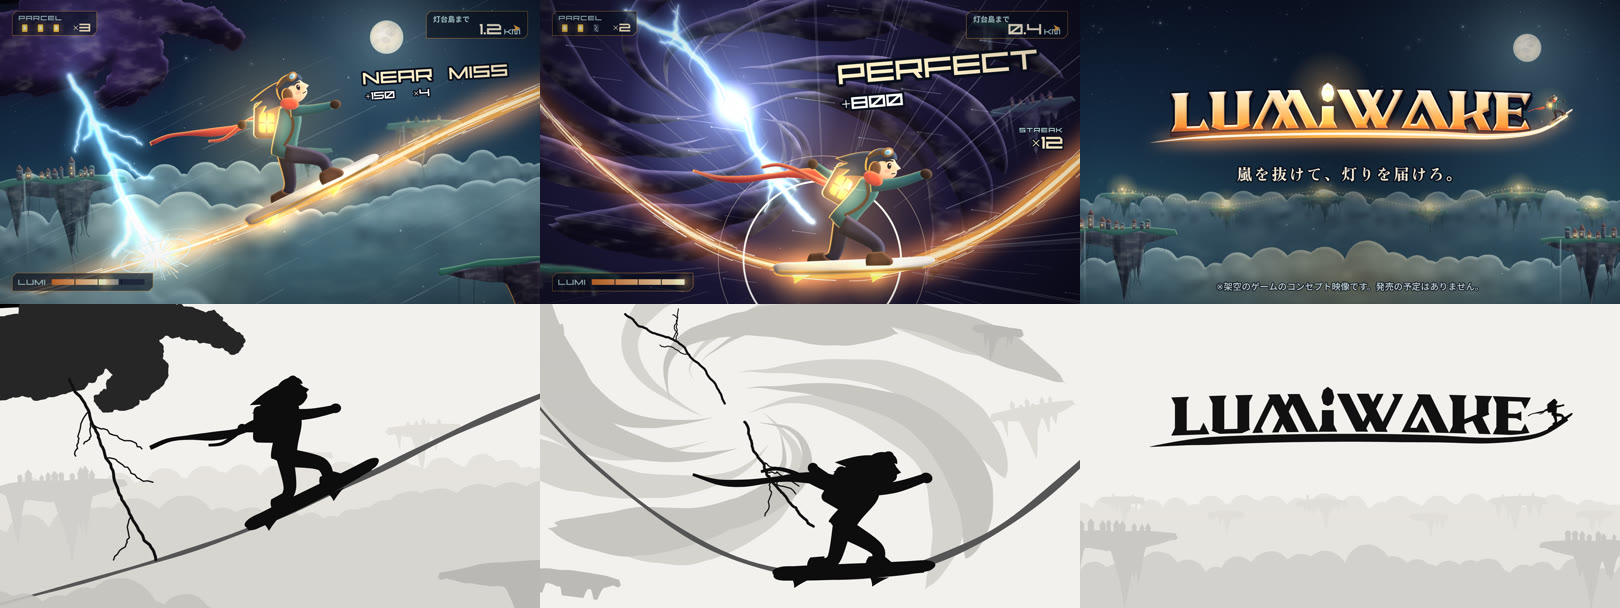
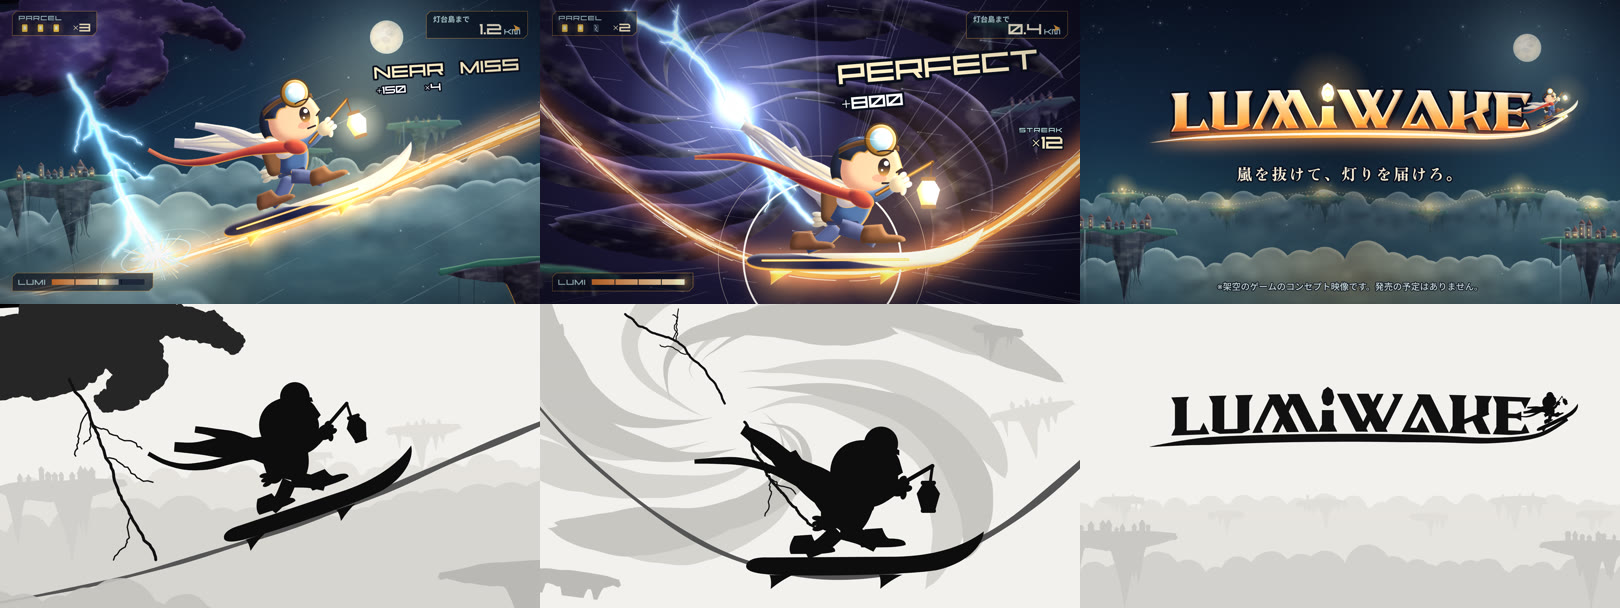
Switch style frames sf1-sf3 to character design A (Mio with lantern)
Fix pose, brows, cape folds, fingers/grip, goggles size, boot/board contact;
re-render with real HUD fonts; add old-vs-new, 540px/silhouette, FX on/off
and motion-check images. Font files and logo glyph data stay uncommitted.

Claude-Session: https://claude.ai/code/session_01DHqeTrY16kMSHw1xjVFCqk

diff --git a/claude-video-skill/examples/lumiwake-30s/src/lib/courier2.js b/claude-video-skill/examples/lumiwake-30s/src/lib/courier2.js
@@ -8,7 +8,7 @@
 // 局所座標: 原点=板の中心、右向き、y は下。足は板の上面 FT_Y に載る。単位は s=1 で人物の高さ約 260〜300px。
 const COURIER2 = (() => {
   const P = PAINT, W = WORLD, { css, mix, lerp, clamp, shade, glow } = P;
-  const FT_Y = -24;
+  const FT_Y = -25; // 板の上面。靴底はここに接する(めり込まない)
   const SKIN = { base: "#f3cba8", hi: "#fff0dd", sh: "#c27a6a" };
 
   // ---- 3案の体と衣装 ----
@@ -27,7 +27,7 @@ const COURIER2 = (() => {
   // ---- 姿勢(単位: 腕の長さ・脚の長さに対する比、または px) ----
   const POSES = {
     ride:    { crouch: 0.62, lean: 0.42, hipX: -16, fx: 70, bx: -70, handF: [1.55, -0.2], handB: [-0.95, 0.85], tilt: -0.04, expr: 0, swing: 0.3 },
-    dodge:   { crouch: 0.92, lean: -0.32, hipX: -34, fx: 46, bx: -86, handF: [0.85, -1.35], handB: [-1.2, -0.6], tilt: 0.22, expr: 1, swing: 0.9 },
+    dodge:   { crouch: 0.92, lean: -0.3, hipX: -34, fx: 46, bx: -86, handF: [1.35, -0.55], handB: [-1.25, 0.15], tilt: 0.22, expr: 1, swing: 0.9 },
     deliver: { crouch: 0.28, lean: 0.14, hipX: -8, fx: 66, bx: -54, handF: [1.7, 0.05], handB: [1.45, 0.3], tilt: -0.02, expr: 2, swing: 0.15, offer: 1 },
   };
   const poseMix = (a, b, k) => { const o = {}, A = typeof a === "string" ? POSES[a] : a, B = typeof b === "string" ? POSES[b] : b; for (const key in A) o[key] = Array.isArray(A[key]) ? A[key].map((v, i) => lerp(v, B[key][i], k)) : lerp(A[key], B[key] ?? A[key], k); return o; };
@@ -75,7 +75,7 @@ const COURIER2 = (() => {
     const rim = (k = 1) => ({ rimCol: css(W.C.amber), rim: 4.5 * s * k, rimA: 0.9 * lampK });
     const limb = (g, pts, wf) => P.ribbonPath(g, P.sampleSpline(pts, 12), wf);
     const strokeLocal = (fn, force) => { if (sil && !force) return; ctx.save(); T(ctx); fn(ctx); ctx.restore(); };
-    const wLimb = D.limbW, ang0 = Math.PI + clamp(-p.lean * 0.5, -0.4, 0.4); // 風は後ろ(-x)から。体が前に傾くほどなびきは寝る
+    const wLimb = D.limbW, ang0 = Math.PI + (opts.windLift ?? 0.3) + clamp(-p.lean * 0.25, -0.2, 0.2); // 風は後ろ(-x)から。体が前に傾くほどなびきは寝る
 
     // 0) 二次運動の鎖(後ろ側): 先に計算する
     const nk = [J.neck[0] + 2, J.neck[1] + 8];
@@ -84,10 +84,17 @@ const COURIER2 = (() => {
     const ribbon = (g, pts, w0, w1) => limb(g, pts, (u) => lerp(w0, w1, u) * (1 + 0.12 * Math.sin(u * 13 - t * 9)));
 
     // 1) 後ろ側の二次運動(ケープ・コートの裾)
-    if (D.cape) {
-      const base = [J.sh[0] - 6, J.sh[1] + 2], c1 = chain(base, ang0 + 0.12, [52, 52, 50, 46, 40], t, { amp: 0.3, w: 8, lag: 0.6, droop: 0.2 }), c2 = chain([base[0], base[1] + 34], ang0 + 0.3, [46, 46, 42, 36], t, { amp: 0.3, w: 8, lag: 0.6, ph: 0.8, droop: 0.28 });
-      part((g) => ribbon(g, c2, 62, 14), { ...pal(D.cape, 0.7), shCol: css(mix(D.cape[2], "#101830", 0.2)) });
-      part((g) => ribbon(g, c1, 76, 20), { ...pal(D.cape) });
+    if (D.cape) { // ケープ: 3枚の面(奥・中・手前)を位相をずらして重ね、折れ線の陰で厚みを出す
+      const base = [J.sh[0] - 4, J.sh[1] + 4];
+      const c1 = chain(base, ang0 + 0.1, [50, 50, 48, 44, 38], t, { amp: 0.3, w: 8, lag: 0.6, droop: 0.15 }), c2 = chain([base[0], base[1] + 30], ang0 + 0.28, [44, 44, 40, 34], t, { amp: 0.3, w: 8, lag: 0.6, ph: 0.8, droop: 0.24 }), c3 = chain([base[0] + 2, base[1] + 14], ang0 + 0.19, [46, 46, 44, 38, 30], t, { amp: 0.32, w: 8, lag: 0.65, ph: 1.7, droop: 0.2 });
+      const wfn = (w0, w1) => (u) => lerp(w0, w1, u) * (1 + 0.12 * Math.sin(u * 13 - t * 9));
+      part((g) => ribbon(g, c2, 54, 12), { ...pal(D.cape, 0.7), shCol: css(mix(D.cape[2], "#101830", 0.3)) });
+      part((g) => ribbon(g, c1, 62, 18), { ...pal(D.cape) });
+      part((g) => ribbon(g, c3, 48, 12), { ...pal(D.cape, 1.2), hiA: 1 });
+      const folds = (pts, w0, w1, fr, col, lw) => strokeLocal((g) => { const sm = P.sampleSpline(pts, 10), wf = wfn(w0, w1), L = sm[sm.length - 1][2] || 1; g.strokeStyle = col; g.lineWidth = lw; g.lineCap = "round"; g.lineJoin = "round"; for (const f of fr) { g.beginPath(); let first = true; for (let i = 0; i < sm.length; i++) { const u = sm[i][2] / L; if (u < 0.08 || u > 0.92) continue; const a0 = sm[Math.max(0, i - 1)], b0 = sm[Math.min(sm.length - 1, i + 1)]; let tx = b0[0] - a0[0], ty = b0[1] - a0[1]; const tn = Math.hypot(tx, ty) || 1; tx /= tn; ty /= tn; const w = wf(u) * f * (1 + 0.15 * Math.sin(u * 9 + f * 7)); const X = sm[i][0] - ty * w, Y = sm[i][1] + tx * w; first ? g.moveTo(X, Y) : g.lineTo(X, Y); first = false; } g.stroke(); } });
+      folds(c1, 62, 18, [-0.26, 0.08, 0.3], css(D.cape[2], 0.5), 3);
+      folds(c3, 48, 12, [-0.2, 0.22], css(D.cape[2], 0.4), 2.5);
+      folds(c1, 62, 18, [-0.4], css("#ffffff", 0.55), 2); // 縁の光
     }
     if (design === "C") { // 燕尾コートの裾(腰から2枚)
       const tails = [0, 1].map((i) => chain([J.hip[0] - 6, J.hip[1] + 2 + i * 10], ang0 + 0.4 + i * 0.22, [40, 40, 38, 34], t, { amp: 0.32, w: 8.5, lag: 0.7, ph: i * 1.1, droop: 0.3 }));
@@ -104,7 +111,7 @@ const COURIER2 = (() => {
     // 3) 後ろの腕(手は握り)
     const armW = (u) => lerp(wLimb * 1.15, wLimb * 0.8, u);
     part((g) => limb(g, J.aB, armW), { ...pal(D.coat, 0.8), ...rim(0.5) });
-    part((g) => mitten(g, J.aB[1], J.aB[2], D.hand), { ...pal(D.glove, 0.6) });
+    part((g) => mitten(g, J.aB[1], J.aB[2], D.hand), { ...pal(D.glove, 0.6) }); strokeLocal((g) => fingerLines(g, J.aB[1], J.aB[2], D.hand, css(D.glove[2], 0.8), false));
     // 4) 後ろの脚と靴
     const legW = (u) => lerp(wLimb * 1.35, wLimb * 0.95, u) * (1 + 0.12 * Math.sin(u * Math.PI));
     part((g) => limb(g, J.legB, legW), { ...pal(D.pants, 0.7), ...rim(0.4) });
@@ -120,6 +127,7 @@ const COURIER2 = (() => {
       g.strokeStyle = css(D.pants[2], 0.9); g.lineWidth = 7; g.lineCap = "round"; g.beginPath(); const b0 = [lerp(J.hip[0], J.sh[0], 0.12), lerp(J.hip[1], J.sh[1], 0.12)]; g.moveTo(b0[0] - torsoW * 0.42, b0[1]); g.lineTo(b0[0] + torsoW * 0.42, b0[1]); g.stroke();
       g.fillStyle = css(W.C.amber); g.beginPath(); g.arc(b0[0] + 4, b0[1], 5, 0, 7); g.fill();
     });
+    if (D.cape) part((g) => g.ellipse(J.sh[0] - 4, J.sh[1] - 4, 34, 20, -0.5, 0, 7), { ...pal(D.cape, 0.9), ...rim(0.3) }); // ケープの襟
     // 7) 前の脚と靴
     part((g) => limb(g, J.legF, legW), { ...pal(D.pants, 1) });
     part((g) => boot(g, J.legF[2], D.boot), { ...pal(D.boots, 0.9) });
@@ -132,7 +140,7 @@ const COURIER2 = (() => {
     part((g) => limb(g, J.aF, armW), { ...pal(D.coat, 1) });
     let held = null;
     if (design === "A") held = heldLantern(part, strokeLocal, J, p, D, t, s, wp, pal, rim);
-    part((g) => mitten(g, J.aF[1], J.aF[2], D.hand * 1.05), { ...pal(D.glove, 0.9) });
+    part((g) => mitten(g, J.aF[1], J.aF[2], D.hand * 1.05, design === "A"), { ...pal(D.glove, 0.9) }); strokeLocal((g) => fingerLines(g, J.aF[1], J.aF[2], D.hand * 1.05, css(D.glove[2], 0.8), design === "A"));
     if (p.offer && design !== "A") { // 差し出す小包(両手の間)
       const hm = [(J.aF[2][0] + J.aB[2][0]) / 2 + 12, (J.aF[2][1] + J.aB[2][1]) / 2 - 6];
       part((g) => g.roundRect(hm[0] - 22, hm[1] - 20, 44, 40, 8), { base: css("#9a6a44"), hiCol: css("#e0a577"), hi: 5 * s, hiA: 0.8, shCol: css("#3a2018"), sh: 8 * s, shA: 0.9 });
@@ -148,12 +156,22 @@ const COURIER2 = (() => {
   }
 
   // ---- 部品の形 ----
-  function mitten(g, elbow, hand, r) { // 手袋: 前腕の向きに沿った丸いミトン+親指
-    const a = Math.atan2(hand[1] - elbow[1], hand[0] - elbow[0]), c = Math.cos(a), sn = Math.sin(a), hx = hand[0] + c * r * 0.6, hy = hand[1] + sn * r * 0.6;
-    g.ellipse(hx, hy, r * 1.05, r * 0.85, a, 0, 7);
-    g.moveTo(hx - sn * r * 0.2 + c * r * 0.3, hy + c * r * 0.2 + sn * r * 0.3); g.ellipse(hx - sn * r * 0.75 + c * r * 0.15, hy + c * r * 0.75 + sn * r * 0.15, r * 0.5, r * 0.34, a + 0.9, 0, 7);
+  const ell = (g, cx, cy, rx, ry, rot) => { g.moveTo(cx + rx * Math.cos(rot), cy + rx * Math.sin(rot)); g.ellipse(cx, cy, rx, ry, rot, 0, Math.PI * 2); };
+  function mitten(g, elbow, hand, r, grip) { // 手: 手のひら+指3本+親指。grip=true は棒を握る(指を曲げて並べる)
+    const a = Math.atan2(hand[1] - elbow[1], hand[0] - elbow[0]), c = Math.cos(a), sn = Math.sin(a), px = hand[0] + c * r * 0.5, py = hand[1] + sn * r * 0.5;
+    ell(g, px, py, r * 0.95, r * 0.8, a);
+    for (let i = -1; i <= 1; i++) {
+      const off = i * r * 0.5, fx = px + c * r * 0.75 - sn * off, fy = py + sn * r * 0.75 + c * off;
+      if (grip) ell(g, fx, fy, r * 0.42, r * 0.3, a + 0.2 * i); else ell(g, fx + c * r * 0.28, fy + sn * r * 0.28, r * 0.62, r * 0.27, a + 0.16 * i);
+    }
+    ell(g, px - sn * r * 0.78 + c * r * 0.1, py + c * r * 0.78 + sn * r * 0.1, r * 0.5, r * 0.3, a - 0.9);
   }
-  function boot(g, f, k) { const x = f[0], y = f[1], H = 30 * k, Ln = 38 * k; g.moveTo(x - 20 * k, y - H); g.lineTo(x + 10 * k, y - H - 2); g.quadraticCurveTo(x + 16 * k, y - H * 0.5, x + 22 * k, y - 14); g.quadraticCurveTo(x + Ln + 14 * k, y - 14, x + Ln + 12 * k, y - 2); g.quadraticCurveTo(x + Ln, y + 5, x + 10 * k, y + 5); g.lineTo(x - 26 * k, y + 5); g.quadraticCurveTo(x - 32 * k, y - 10, x - 20 * k, y - H); g.closePath(); }
+  function fingerLines(g, elbow, hand, r, col, grip) { // 指の境目の細い線
+    const a = Math.atan2(hand[1] - elbow[1], hand[0] - elbow[0]), c = Math.cos(a), sn = Math.sin(a), px = hand[0] + c * r * 0.5, py = hand[1] + sn * r * 0.5;
+    g.strokeStyle = col; g.lineWidth = 1.8; g.lineCap = "round";
+    for (const i of [-0.5, 0.5]) { const off = i * r * 0.5, x0 = px + c * r * 0.5 - sn * off, y0 = py + sn * r * 0.5 + c * off, L = grip ? r * 0.55 : r * 0.95; g.beginPath(); g.moveTo(x0, y0); g.lineTo(x0 + c * L, y0 + sn * L); g.stroke(); }
+  }
+  function boot(g, f, k) { const x = f[0], y = f[1], H = 30 * k, Ln = 38 * k; g.moveTo(x - 20 * k, y - H); g.lineTo(x + 10 * k, y - H - 2); g.quadraticCurveTo(x + 16 * k, y - H * 0.5, x + 22 * k, y - 14); g.quadraticCurveTo(x + Ln + 14 * k, y - 14, x + Ln + 12 * k, y - 3); g.quadraticCurveTo(x + Ln, y + 1, x + 10 * k, y + 1); g.lineTo(x - 26 * k, y + 1); g.quadraticCurveTo(x - 32 * k, y - 10, x - 20 * k, y - H); g.closePath(); }
   function smallPack(part, pal, J, D) { const x = J.sh[0] - 36, y = J.sh[1] + 10; part((g) => g.roundRect(x - 26, y - 26, 52, 62, 12), { base: css("#8a5a3a"), hiCol: css("#d19a6e"), hi: 6, hiA: 0.8, shCol: css("#2e1d18"), sh: 12, shA: 0.9 }); }
   function bigPack(part, strokeLocal, pal, rim, J, p, s, t, D, wp) { // 巨大な灯り箱: 頭より大きい。窓が光り、上に小さな旗
     const ang = p.lean * 0.8, cx = J.sh[0] - 62 - 8 * Math.sin(p.lean), cy = J.sh[1] + 18, w = 118, h = 150, rr = (g, ox, oy, ww, hh, r) => { g.save(); g.translate(cx, cy); g.rotate(ang); g.roundRect(ox - ww / 2, oy - hh / 2 + 0, ww, hh, r); g.restore(); };
@@ -190,8 +208,11 @@ const COURIER2 = (() => {
     // 帽子・装備(案ごと)
     if (design === "A") { // 大きな丸ゴーグルを額に上げる+革ベルト
       part((g) => { g.moveTo(hx - R * 1.0, hy - R * 0.55); g.quadraticCurveTo(hx, hy - R * 1.12, hx + R * 1.0, hy - R * 0.62); g.lineTo(hx + R * 1.0, hy - R * 0.45); g.quadraticCurveTo(hx, hy - R * 0.95, hx - R * 1.0, hy - R * 0.36); g.closePath(); }, { base: css("#5a3a28"), hiCol: css("#c0875a"), hi: 3 * s, hiA: 0.8, shCol: "#1c0f0a", sh: 5 * s, shA: 0.8 });
-      part((g) => g.arc(hx + R * 0.42, hy - R * 0.78, R * 0.42, 0, 7), { base: css("#c98b3a"), hiCol: "#ffe2a0", hi: 5 * s, hiA: 0.9, shCol: "#5a3612", sh: 7 * s, shA: 0.9 });
-      part((g) => g.arc(hx + R * 0.45, hy - R * 0.8, R * 0.3, 0, 7), { base: css("#bfeeff"), hiCol: "#ffffff", hi: 4 * s, hiA: 1, shCol: "#2a6a8a", sh: 5 * s, shA: 0.9, silColor: "#0d0d0d" });
+      // ゴーグル: 540px でも見えるよう大きく(半径 0.52R)、濃い縁取り+太い真鍮の縁+白い反射の面を大きく
+      part((g) => g.arc(hx + R * 0.4, hy - R * 0.84, R * 0.56, 0, 7), { base: css("#3a2412"), hiCol: css("#6a4a2c"), hi: 3 * s, hiA: 0.8 });
+      part((g) => g.arc(hx + R * 0.4, hy - R * 0.84, R * 0.5, 0, 7), { base: css("#d9a24a"), hiCol: "#fff0b8", hi: 5 * s, hiA: 0.95, shCol: "#7a4a12", sh: 7 * s, shA: 0.9 });
+      part((g) => g.arc(hx + R * 0.41, hy - R * 0.85, R * 0.38, 0, 7), { base: css("#dff6ff"), hiCol: "#ffffff", hi: 9 * s, hiA: 1, shCol: "#4a9ac0", sh: 6 * s, shA: 0.9, silColor: "#0d0d0d" });
+      strokeLocal((g) => { g.fillStyle = "rgba(255,255,255,0.95)"; g.beginPath(); g.ellipse(hx + R * 0.3, hy - R * 0.97, R * 0.14, R * 0.08, -0.5, 0, 7); g.fill(); });
     } else if (design === "B") { // 配達帽(つば付きの制帽。琥珀の灯りのバッジ)
       part((g) => { g.moveTo(hx - R * 1.05, hy - R * 0.35); g.bezierCurveTo(hx - R * 1.0, hy - R * 1.45, hx + R * 0.9, hy - R * 1.5, hx + R * 1.05, hy - R * 0.5); g.lineTo(hx + R * 1.75, hy - R * 0.42); g.quadraticCurveTo(hx + R * 1.85, hy - R * 0.28, hx + R * 1.6, hy - R * 0.25); g.lineTo(hx - R * 1.0, hy - R * 0.05); g.closePath(); }, { base: css("#33417a"), hiCol: css("#7f93d8"), hi: 7 * s, hiA: 0.85, shCol: css("#10163a"), sh: 12 * s, shA: 0.9, ...rim(0.6) });
       part((g) => { g.moveTo(hx + R * 0.2, hy - R * 1.0); g.lineTo(hx + R * 0.5, hy - R * 0.85); g.lineTo(hx + R * 0.2, hy - R * 0.5); g.lineTo(hx - R * 0.1, hy - R * 0.85); g.closePath(); }, { base: css(W.C.amberHot), hiCol: "#fff", hi: 3 * s, hiA: 1, silColor: "#0d0d0d" });
@@ -211,8 +232,8 @@ const COURIER2 = (() => {
       g.fillStyle = ink; g.beginPath(); g.ellipse(ex, ey, R * 0.2 * er, R * 0.3 * er, 0.05, 0, 7); g.fill();
       const gi = g.createLinearGradient(0, ey - R * 0.3, 0, ey + R * 0.3); gi.addColorStop(0.45, "rgba(255,170,70,0)"); gi.addColorStop(1, "rgba(255,190,90,0.9)"); g.fillStyle = gi; g.beginPath(); g.ellipse(ex, ey, R * 0.2 * er, R * 0.3 * er, 0.05, 0, 7); g.fill();
       g.fillStyle = "#fff"; g.beginPath(); g.arc(ex + R * 0.07, ey - R * 0.13 * er, R * 0.085, 0, 7); g.fill(); g.beginPath(); g.arc(ex - R * 0.06, ey + R * 0.1, R * 0.04, 0, 7); g.fill();
-      g.strokeStyle = ink; g.lineCap = "round"; g.lineWidth = R * 0.075; g.beginPath(); // まゆ
-      if (e === 0) { g.moveTo(ex - R * 0.25, ey - R * 0.42); g.lineTo(ex + R * 0.3, ey - R * 0.5); } else if (e === 1) { g.moveTo(ex - R * 0.22, ey - R * 0.55); g.quadraticCurveTo(ex + R * 0.05, ey - R * 0.7, ex + R * 0.3, ey - R * 0.55); } else { g.moveTo(ex - R * 0.25, ey - R * 0.5); g.quadraticCurveTo(ex + R * 0.05, ey - R * 0.6, ex + R * 0.3, ey - R * 0.46); }
+      g.strokeStyle = ink; g.lineCap = "round"; g.lineWidth = R * 0.045; g.beginPath(); // まゆ(細く、後ろ端をやや下げる=きりっ)
+      if (e === 0) { g.moveTo(ex - R * 0.24, ey - R * 0.5); g.quadraticCurveTo(ex + R * 0.02, ey - R * 0.58, ex + R * 0.28, ey - R * 0.54); } else if (e === 1) { g.moveTo(ex - R * 0.22, ey - R * 0.55); g.quadraticCurveTo(ex + R * 0.05, ey - R * 0.7, ex + R * 0.3, ey - R * 0.55); } else { g.moveTo(ex - R * 0.25, ey - R * 0.5); g.quadraticCurveTo(ex + R * 0.05, ey - R * 0.6, ex + R * 0.3, ey - R * 0.46); }
       g.stroke();
       g.lineWidth = R * 0.06; g.beginPath(); g.moveTo(hx + R * 1.08, hy + R * 0.08); g.lineTo(hx + R * 0.92, hy + R * 0.2); g.stroke(); // 鼻
       g.lineWidth = R * 0.065; g.beginPath(); // 口

diff --git a/claude-video-skill/examples/lumiwake-30s/src/stills/sf1.js b/claude-video-skill/examples/lumiwake-30s/src/stills/sf1.js
@@ -3,7 +3,7 @@
 var STILLS = STILLS || {};
 STILLS["1"] = function (ctx, t) {
   const P = PAINT, W = WORLD, C = W.C;
-  const streamPts = [[-160, 1030], [380, 915], [820, 800], [1240, 640], [1640, 470], [2120, 300]];
+  const streamPts = [[-160, 1010], [380, 935], [820, 835], [1240, 710], [1640, 560], [2120, 390]];
   ctx.save();
   // カメラ: 少し傾ける(ダッチ 3°)。角が空かないよう 1.06 倍
   ctx.translate(960, 540); ctx.rotate(-0.05); ctx.scale(1.06, 1.06); ctx.translate(-960, -540);
@@ -35,9 +35,9 @@ STILLS["1"] = function (ctx, t) {
   // 配達人: 気流の上(x≈1080)に乗せ、気流の傾きに合わせる
   let k = 0; while (k < samp.length - 2 && samp[k][0] < 1080) k++;
   const ang = Math.atan2(samp[k + 1][1] - samp[k - 1][1], samp[k + 1][0] - samp[k - 1][0]);
-  // 配達人: 第2版(案A)が既定。?char=old で第1版(比較用)
+  // 配達人: 案A(提灯のミオ)。?char=old で第1版(比較用)
   if (window.CHAR_OLD) COURIER.drawCourier(ctx, samp[k][0], samp[k][1] - 6, 1.45, ang, { lean: 0.5, crouch: 0.7, armF: 0.15, scarfT: t, lampGlow: 1 });
-  else COURIER2.draw(ctx, samp[k][0], samp[k][1] - 16, 1.6, ang * 0.85, Object.assign({}, COURIER2.POSES.ride, { lean: 0.72, crouch: 0.55, fx: 80, bx: -84, handF: [1.7, -0.25] }), "A", { t });
+  else COURIER2.draw(ctx, samp[k][0], samp[k][1] - 15, 1.7, ang * 0.9, Object.assign({}, COURIER2.POSES.ride, { lean: 0.34, crouch: 0.55, fx: 82, bx: -80, handF: [1.6, -0.35] }), "A", { t, windLift: 0.42 });
   // 手前: 暗い岩(右下、d=0。画面の枠になる)と、手前の雲のもや(ぼかし)
   W.island(ctx, { seed: 21, cx: 1820, top: 960, w: 620, depthH: 300, d: 0.0, town: false, falls: false, lamp: 0, L: [0.6, -0.8], lightSide: { col: C.amber, w: 5, L: [-0.9, -0.3], a: 0.7 } });
   P.layer(ctx, (g) => W.cloudBank(g, { seed: 9, x0: -300, x1: 700, yb: 1110, hgt: 150, d: 0.25, under: 100 }), { blur: 10, a: 0.9 });

diff --git a/claude-video-skill/examples/lumiwake-30s/src/stills/sf2.js b/claude-video-skill/examples/lumiwake-30s/src/stills/sf2.js
@@ -45,7 +45,8 @@ STILLS["2"] = function (ctx, t) {
     ctx.lineWidth = 2; ctx.strokeStyle = "rgba(255,240,210,0.5)"; ctx.beginPath(); ctx.arc(at[0] - 90, at[1] - 30, 330, 0, 7); ctx.stroke(); ctx.restore();
     P.glow(ctx, at[0] - 90, at[1] - 30, 300, C.amber, 0.35);
   }
-  const me = COURIER.drawCourier(ctx, at[0], at[1] - 4, 1.5, ang, { lean: 0.6, crouch: 0.95, armF: 0.9, armB: 0.6, scarfT: t + 0.3, scarfLen: 1.15 });
+  const me = window.CHAR_OLD ? COURIER.drawCourier(ctx, at[0], at[1] - 4, 1.5, ang, { lean: 0.6, crouch: 0.95, armF: 0.9, armB: 0.6, scarfT: t + 0.3, scarfLen: 1.15 })
+    : COURIER2.draw(ctx, at[0], at[1] - 18, 1.85, ang * 0.9, Object.assign({}, COURIER2.POSES.ride, { lean: 0.5, crouch: 0.85, fx: 84, bx: -84, handF: [1.55, -0.55], expr: 0 }), "A", { t: t + 0.3, windLift: 0.45 });
   // 手前: 渦に吸い上げられる岩のかけら(ぼかし=手前の被写界深度)
   P.layer(ctx, (g) => {
     for (const [x, y, w, sd] of [[260, 1010, 300, 31], [1760, 1040, 300, 33], [1500, 60, 150, 35]]) W.island(g, { seed: sd, cx: x, top: y, w, depthH: w * 0.7, d: 0.05, town: false, falls: false, roots: false, lamp: 0, skyCol: "#1c1838", L: [-0.6, -0.8], lightSide: { col: "#bfe9ff", w: 4, L: [-0.8, -0.5], a: 0.7 } });

diff --git a/claude-video-skill/examples/lumiwake-30s/src/stills/sf3.js b/claude-video-skill/examples/lumiwake-30s/src/stills/sf3.js
@@ -27,7 +27,8 @@ STILLS["3"] = function (ctx, t) {
   const L = LOGO.draw(ctx, 960, 400, 1280, { t });
   // スウッシュの先端に小さな配達人
   const e = L.swooshEnd, s2 = L.swS, n = s2.length, ang = Math.atan2(s2[n - 1][1] - s2[n - 4][1], s2[n - 1][0] - s2[n - 4][0]);
-  COURIER.drawCourier(ctx, e[0] - 30 * Math.cos(ang), e[1] - 30 * Math.sin(ang) - 3, 0.3, ang, { lean: 0.5, crouch: 0.7, scarfT: t });
+  if (window.CHAR_OLD) COURIER.drawCourier(ctx, e[0] - 30 * Math.cos(ang), e[1] - 30 * Math.sin(ang) - 3, 0.3, ang, { lean: 0.5, crouch: 0.7, scarfT: t });
+  else COURIER2.draw(ctx, e[0] - 46 * Math.cos(ang), e[1] - 46 * Math.sin(ang) - 12, 0.42, ang * 0.8, Object.assign({}, COURIER2.POSES.ride, { lean: 0.4, crouch: 0.5 }), "A", { t, windLift: 0.35 });
   // コピーと注記(和文)
   if (!P.mode.sil) {
     HUD.text(ctx, "嵐を抜けて、灯りを届けろ。", 960, 640, { font: "JPM", weight: 900, size: 56, col: "#f4ead2", align: "center", stroke: 10, strokeCol: "rgba(8,12,26,0.85)", track: 6 });

diff --git a/claude-video-skill/examples/lumiwake-30s/REVIEW_STAGE1.md b/claude-video-skill/examples/lumiwake-30s/REVIEW_STAGE1.md
@@ -145,3 +145,49 @@
 | `frames/sf1_v2_A.png` | 案A で描き直した sf1(代用 HUD 書体) |
 | `frames/sf1_compare_old_vs_new.jpg` | 左=旧キャラ、右=案A(どちらも同じ代用 HUD 書体) |
 | `src/lib/courier2.js` / `src/sheet.html` | キャラの描画部品、シートの描画ページ(`?sheet=designs` / `?sheet=motion&d=A`) |
+
+---
+
+# 追加2: 案A(提灯のミオ)で確定 → sf1〜sf3 を差し替え
+
+ユーザーの返事: 「Aのミオでいい」。作り手本人の点検で、独立レビューではない。見た目の良し悪しは利用者が判断する。HUD の文字は本来の書体(ゆうたONE の Vectura、ロゴは FullmoonMarch)に戻した。フォントファイルと `logo-glyphs.js` はコミットしていない(`.gitignore`。`setup_fonts.sh` と `glyph_paths.py` で作り直す)。`frames/` の旧 sf1〜sf3(旧キャラ)は、前回コミット(66458f1)の版と比べられる。
+
+## 直した点(前回挙げた弱点との対応)
+| 弱点 | 直し方 | 結果(目視) |
+|---|---|---|
+| ① sf1 で体が反る・ケープとマフラーが脚を隠す | 気流の傾きを緩め(約 -0.4 → -0.3 rad 相当)、板の傾きは 0.9 倍、体の前傾を 0.34、足を前後に開く。なびきの向きを `windLift`(上へ 0.3〜0.45 rad)で上へ逃がし、脚の上を通さない | 足・板・体の向きが読める。体はまだ縦に短く、頭が大きい(下の弱点) |
+| ② 眉 | 太さ 0.075R → 0.045R、後ろ端を少し下げた細い弧 | 怒った感じは減った。口の線はまだ短い |
+| ③ ケープが板 | 面を3枚(奥・中・手前)に分けて位相をずらし、折れ線の陰3本+縁の光1本、襟を追加 | しわと厚みは出た。布の端の形はまだ直線的 |
+| ④ 手 | 手のひら+指3本+親指。提灯の杖は指を曲げて握る。指の境目の線 | 握りは読める。指先の関節や爪はない |
+| ⑤ 回避で腕が顔を隠す | 回避の手の位置を [0.85,-1.35] → [1.35,-0.55] に下げて前へ | 顔が見える(`character_sheet.png` ②)。表情が見える反面、回避の「身を守る」感は弱い |
+| ⑥ 540px でゴーグルが点 | 半径 0.42R → 0.56R、濃い茶の縁取り、真鍮の縁を太く、レンズの面を大きく白く、反射の楕円 | 540px でも丸い白い面+金の輪として見える。提灯とは位置が違い見分けられる |
+| ⑦ 靴が板にめり込む | 足の高さを板の上面に合わせ、靴底を足首の目標と同じ高さに(+5px → +1px) | 見た目ではめり込まない。板の反り上がり部分に前足が乗る姿勢は未確認 |
+
+## 並べ比べ・確認の画像(`frames/`)
+- `sf1.png` / `sf2.png` / `sf3.png`: 案Aの3枚(1920×1080)。sf3 はスウッシュの先端に小さなミオ(主役を持ち越す約束)。
+- `compare_prev_vs_caseA.jpg`: 上=前回の旧キャラの3枚、下=今回の3枚。
+- `check_540_and_silhouette.jpg`: 上=540px、下=シルエットだけ。
+- `fx_compare_sf1.jpg` / `fx_compare_sf2.jpg`: 左=効果なし、右=効果あり。
+- `character_motion_check_A.png`: 別時刻(t=0〜0.3秒)の二次運動と、姿勢補間(ride→dodge→deliver)の途中コマ。
+- `character_sheet.png`: 3案の比較シート(案Aは今回の修正を反映済み。B・C は修正していない)。
+- 同じ指定で2回描いて画素が一致: sf1・sf2・sf3・character_sheet の md5 が2回とも同じ。
+
+## まだ弱い点(厳しめに)
+1. **頭が大きく胴が短い**(3頭身)。sf2 では特に、頭と提灯の手が画面の中心で大きく、体の動き(回り込みの勢い)が小さく見える。危機感・格好よさとの相性は利用者の判断。
+2. **姿勢の説得力**: 板に乗る姿勢は、どのショットでも「走っているような」足の開きで、サーフボードに乗る低い構えに見えない。体重移動(板の傾きと体の傾きの関係)が弱い。
+3. **sf1 の頭が上を向いて見える**(板の傾きと頭の向きの足し算)。表情は読めるが、進行方向を見ていない。
+4. **後ろの手が白い扇形**に見え、何をしているか分からない(sf1・sf2)。
+5. **ケープ**: 折れ線は付いたが、板状の長方形の端がそのまま見える。マフラーが長く細く、ケープより目立つ(朱が強い)。sf2 ではケープの白が稲妻の光に溶ける。
+6. **sf3 のミオは小さい**(0.42倍)。540px では「ケープを付けた人」とは分かるが、ゴーグルと提灯の区別は付かない。
+7. **旧キャラ(紺の背景に溶ける)より抜けは良いが、sf2 では紫の背景に青い上着が沈む**。
+8. 動画としてのつながり(コマ間の連続性)は未確認。靴が板に乗る位置は、板が大きく傾く姿勢で確認していない。
+9. ロゴの字形は FullmoonMarch のまま(前回の指摘どおり)。
+
+## 汎用とゲーム専用(追記)
+### 汎用
+- **「直す点を1つずつ名指しして、数値で直す」**(眉の太さ、ゴーグルの半径、手の位置)は、見た目の指摘をそのまま作業に落とせた。`windLift` のような「向きの逃がし」を引数にすると、絵ごとの当たり調整が速い。
+- **縮小(540px)で消える物を、先に大きさ・縁・面の明るさで直す**: 小さな部品は半径を上げるより、濃い縁取りと白い大きな面のほうが効いた。
+- **同じ部品を3つのショットで使い回す**と、ショットごとの違い(姿勢・ケープの流れ)を引数だけで出せる。sf2・sf3 の差し替えは数行で済んだ。
+- フォントなどの素材が環境から消える場合に備え、再生成の手順(`setup_fonts.sh`、`glyph_paths.py`)を道具にしておく。
+### ゲーム専用
+- 主役の持ち物(提灯)を HUD・ロゴの灯りと同じ形にそろえると、sf3 で「灯りを運ぶ人」が自然につながった。ただしゴーグルと提灯の丸い光が競合する(上の6)。

diff --git a/claude-video-skill/examples/lumiwake-30s/BRIEF.md b/claude-video-skill/examples/lumiwake-30s/BRIEF.md
@@ -8,7 +8,7 @@
 |---|---|
 | 題材 | 架空のゲーム『LUMIWAKE(ルミウェイク)』。浮遊島の夜空を、光の気流に乗って荷物(灯り)を届ける配達人のアクション |
 | 遊びの核(1文) | 琥珀の「光の気流」に乗って加速し、嵐の稲妻と乱気流をぎりぎりでかわして、島へ灯りを届ける(届けると島が点灯する) |
-| 主役 | 配達人ミオ。空板に乗り、背中に四角い灯り箱、長い朱のマフラー、額に飛行ゴーグル(見た目の約束は `src/lib/courier.js` の冒頭) |
+| 主役 | 配達人ミオ。空板に乗り、背中に四角い灯り箱、長い朱のマフラー、額に飛行ゴーグル(案A「提灯のミオ」に確定(ユーザー承認)。作りは `src/lib/courier2.js`。旧版は `courier.js`(比較用に残す)) |
 | 尺・画面 | 30秒 = 900コマ、1920×1080、30fps、横 |
 | 用途 | ゲームの宣伝ティザー(疑似プレイ演出のコンセプト映像)。無音で見ても分かること |
 | 表記 | 「架空のゲームのコンセプト映像です。発売の予定はありません。」を最後の画面に出す。発売日・価格・ストア名・機種は書かない |
